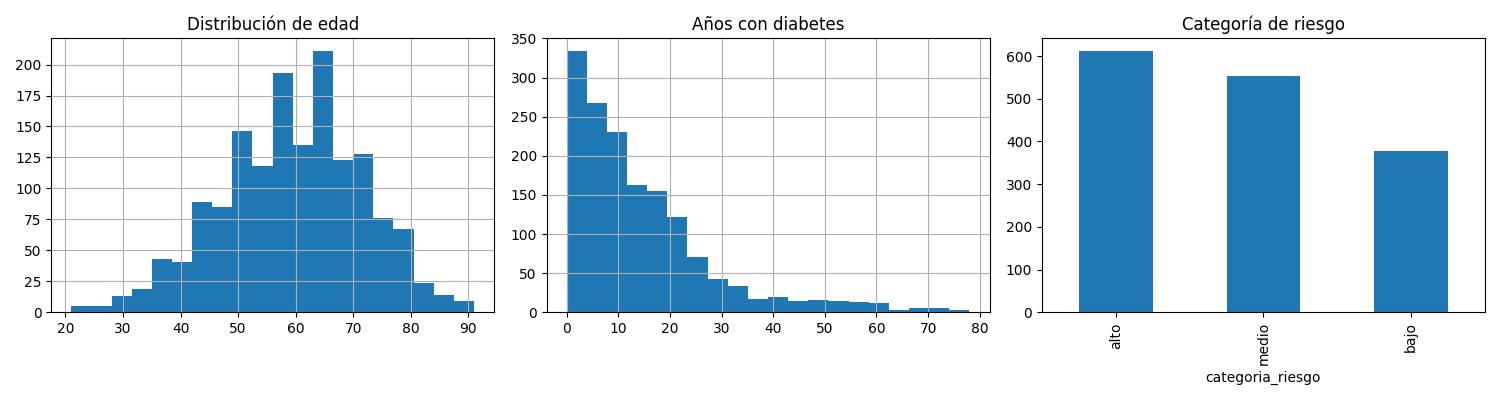
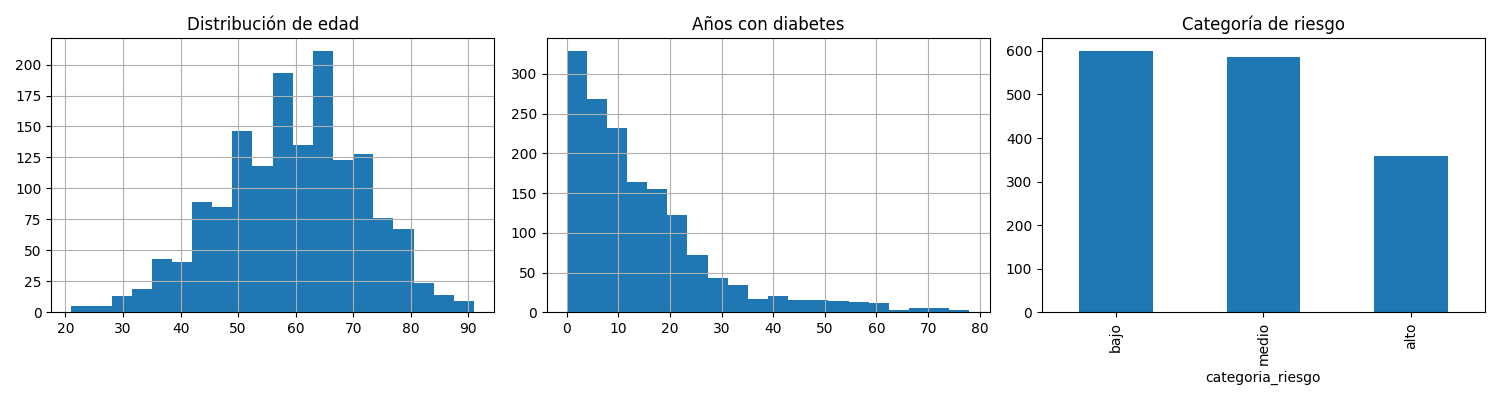
chore: crea estructura inicial para preparación de datos

diff --git a/src/environment/diabetes_followup_env.py b/src/environment/diabetes_followup_env.py
@@ -44,20 +44,40 @@ class DiabetesFollowUpEnv(gym.Env):
         info = {"mes": self.mes_actual, "n_perfiles": self.n_perfiles}
         return obs, info
 
+# Anterior
+#    def _get_obs(self, idx):
+#        row = self.cohorte.iloc[idx]
+#        riesgo_map = {"bajo": 0.0, "medio": 0.5, "alto": 1.0}
+#        obs = np.array([
+#            row["edad"] / 100.0,
+#            row["sexo"],
+#            min(row["anios_con_diabetes"] / 50.0, 1.0),
+#            min(row["num_complicaciones"] / 9.0, 1.0),
+#            min(row["num_comorbilidades"] / 2.0, 1.0),
+#            riesgo_map.get(row["categoria_riesgo"], 0.0),
+#            min(row["meses_sin_contacto"] / 12.0, 1.0),
+#            self.mes_actual / self.horizonte,
+#        ], dtype=np.float32)
+#        return obs 
+
+# Nuevo el np.clip() funciona como protección adicional, 
+# no como sustituto de una limpieza correcta.
+
     def _get_obs(self, idx):
-        row = self.cohorte.iloc[idx]
-        riesgo_map = {"bajo": 0.0, "medio": 0.5, "alto": 1.0}
-        obs = np.array([
-            row["edad"] / 100.0,
-            row["sexo"],
-            min(row["anios_con_diabetes"] / 50.0, 1.0),
-            min(row["num_complicaciones"] / 9.0, 1.0),
-            min(row["num_comorbilidades"] / 2.0, 1.0),
-            riesgo_map.get(row["categoria_riesgo"], 0.0),
-            min(row["meses_sin_contacto"] / 12.0, 1.0),
-            self.mes_actual / self.horizonte,
-        ], dtype=np.float32)
-        return obs
+      row = self.cohorte.iloc[idx]
+      riesgo_map = {"bajo": 0.0, "medio": 0.5, "alto": 1.0}
+      sexo = float(row["sexo"])
+      obs = np.array([
+          np.clip(float(row["edad"]) / 100.0, 0.0, 1.0),
+          np.clip(sexo, 0.0, 1.0),
+          np.clip(float(row["anios_con_diabetes"]) / 50.0, 0.0, 1.0),
+          np.clip(float(row["num_complicaciones"]) / 9.0, 0.0, 1.0),
+          np.clip(float(row["num_comorbilidades"]) / 2.0, 0.0, 1.0),
+          riesgo_map.get(row["categoria_riesgo"], 0.0),
+          np.clip(float(row["meses_sin_contacto"]) / 12.0, 0.0, 1.0),
+          np.clip(float(self.mes_actual) / self.horizonte, 0.0, 1.0)
+      ], dtype=np.float32)
+      return obs
 
     def step(self, action):
         costo = self.costo_accion[action]

diff --git a/docs/modelo_mdp.md b/docs/modelo_mdp.md
@@ -57,27 +57,3 @@ Donde:
 ## Horizonte y criterio de terminación
 
 Episodio de longitud fija: 12 meses (un año simulado). No hay terminación anticipada, salvo un límite máximo de eventos adversos acumulados (opcional, a definir en la etapa de evaluación).
-
-## Calibración final de categoría de riesgo
-
-Se recalibró el umbral de riesgo usando percentiles de la distribución empírica
-del score (complicaciones×2 + comorbilidades), en lugar de un corte fijo
-arbitrario. Los percentiles 50 y 80 de la cohorte (n=1,544) definen los cortes
-medio/alto.
-
-Distribución resultante:
-- Bajo riesgo: 600 personas (38.9%)
-- Medio riesgo: 552 personas (35.8%)
-- Alto riesgo: 392 personas (25.4%)
-
-Esta distribución es consistente con escenarios reales de capacidad operativa
-limitada, donde aproximadamente una cuarta parte de la cohorte requiere
-seguimiento prioritario.
-
-## Tratamiento de valores faltantes (resultado aplicado)
-
-Se identificaron 5 casos con código especial 99 ("no sabe") en `a0302` (edad al diagnóstico) y 1 caso en `a0303num` (frecuencia de control médico). Ambos se recodificaron como valores faltantes y se imputaron con la mediana de la cohorte (n=1,544). La variable derivada `anios_con_diabetes` se recalculó después de esta corrección para evitar valores inconsistentes. Las variables binarias de complicaciones y comorbilidades no presentaron valores faltantes adicionales tras el filtrado inicial; se imputaron como 0 los casos sin respuesta, bajo el supuesto de ausencia de la condición.
-
-## Corrección de codificación en variables binarias
-
-Se detectó que las variables `a0406a` (hipertensión) y `a0604` (colesterol) conservaban la codificación original de ENSANUT (1=Sí, 2=No), mientras que las variables de complicaciones (a0316a-j) ya habían sido binarizadas. Al aplicar imputación de faltantes con 0 sobre la codificación cruda, se generó ambigüedad entre "No" (código 2 original) y el valor de imputación. Se corrigió recodificando explícitamente todas las variables binarias desde su origen: 1->1 (Sí), 2->0 (No), y códigos especiales (8, 9, 98, 99)->NaN antes de imputar. El score de riesgo y la categoría de riesgo se recalcularon con los datos corregidos.
